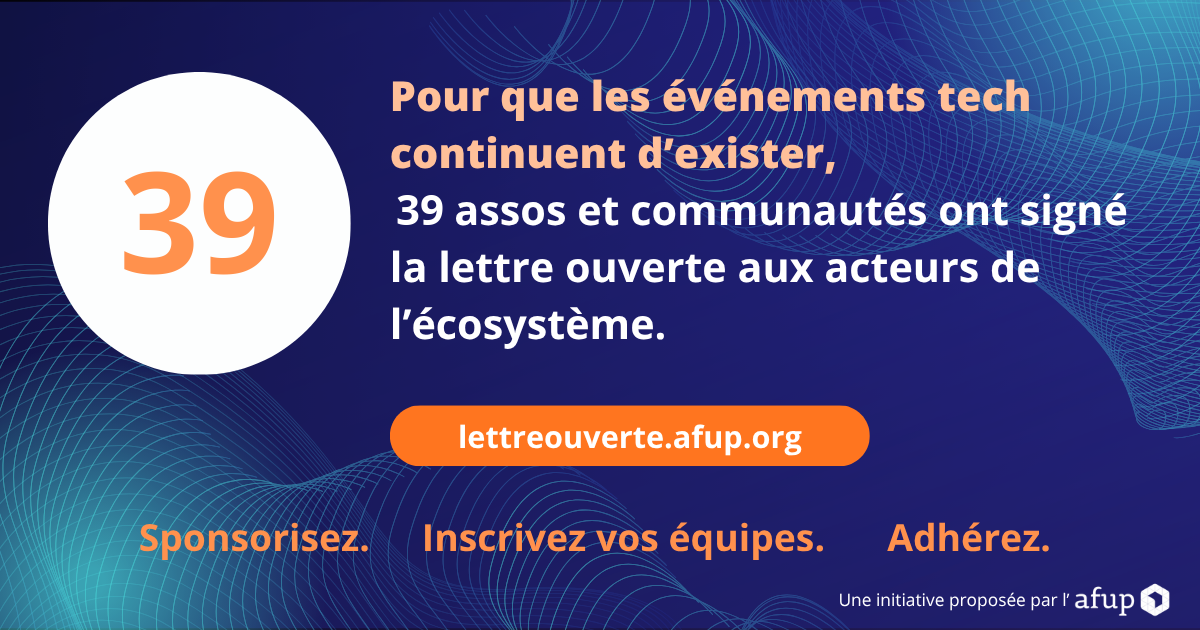
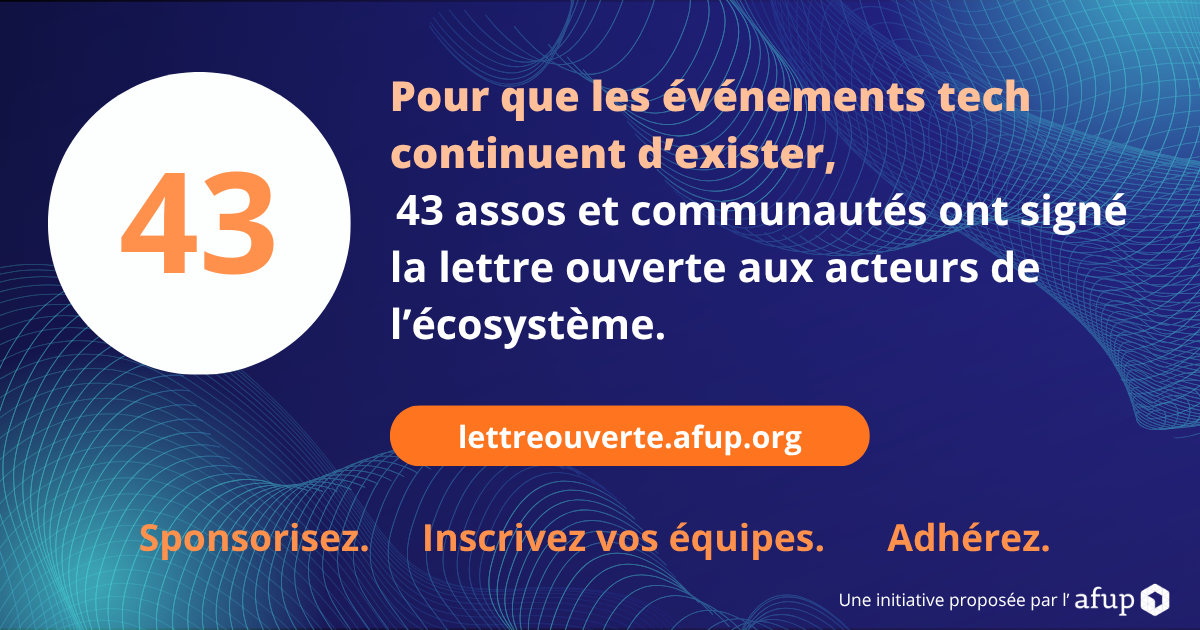
Ajoute Bretzel Craft, AlpesJUG, Chtitedev et Okiwi
AlpesJUG est affiché sans lien : son site officiel est actuellement défacé.
Sa carte utilise donc un `span.sig__inner` plutôt qu'un `a`, et son entrée
JSON-LD est sans `url`.

Claude-Session: https://claude.ai/code/session_0115hX6EEfWp7rYRibe5WUPT

Changed region(s): [[0.0925, 0.2714, 0.2467, 0.4524], [0.3083, 0.3016, 0.37, 0.3619]]

diff --git a/index.html b/index.html
@@ -406,7 +406,7 @@ p a:not(.logo):hover,.footer__nav a:hover{color:var(--orange-hover);border-botto
   <div class="rule signatories__head">
     <div>
       <span class="eyebrow">Signataires</span>
-      <h2 id="signataires-titre"><span class="signatories__count">39</span> organisations ont déjà signé</h2>
+      <h2 id="signataires-titre"><span class="signatories__count">43</span> organisations ont déjà signé</h2>
     </div>
     <p class="signatories__invite">Votre organisation veut apparaître ici&nbsp;? Écrivez-nous à <a href="mailto:lettreouverte@afup.org">lettreouverte@afup.org</a>.</p>
   </div>
@@ -417,8 +417,11 @@ p a:not(.logo):hover,.footer__nav a:hover{color:var(--orange-hover);border-botto
     <li class="sig"><a class="sig__inner" href="https://agilenantes.org/" target="_blank" rel="noopener"><span class="sig__mark"><span class="sig__logo"><img src="assets/logos/agile-nantes.png" alt="Logo d’Agile Nantes" loading="lazy" decoding="async"></span></span><span class="sig__name">Agile Nantes</span></a></li>
     <li class="sig"><a class="sig__inner" href="https://agilestrasbourg.fr/" target="_blank" rel="noopener"><span class="sig__mark"><span class="sig__logo"><img src="assets/logos/agile-tour-strasbourg.png" alt="Logo d’Agile Tour Strasbourg" loading="lazy" decoding="async"></span></span><span class="sig__name">Agile Tour Strasbourg</span></a></li>
     <li class="sig"><a class="sig__inner" href="https://www.alpescraft.fr/" target="_blank" rel="noopener"><span class="sig__mark"><span class="sig__logo"><img src="assets/logos/alpescraft.png" alt="Logo d’AlpesCraft" loading="lazy" decoding="async"></span></span><span class="sig__name">AlpesCraft</span></a></li>
+    <li class="sig"><span class="sig__inner"><span class="sig__mark"><span class="sig__logo"><img src="assets/logos/alpesjug.png" alt="Logo d’AlpesJUG" loading="lazy" decoding="async"><span class="sig__new" title="Nouveau signataire"><span>new</span></span></span></span><span class="sig__name">AlpesJUG</span></span></li>
     <li class="sig"><a class="sig__inner" href="https://bdxio.fr/" target="_blank" rel="noopener"><span class="sig__mark"><span class="sig__logo"><img src="assets/logos/bdx-io.png" alt="Logo de BDX I/O" loading="lazy" decoding="async"></span></span><span class="sig__name">BDX I/O</span></a></li>
     <li class="sig"><a class="sig__inner" href="https://www.breizhcamp.org/" target="_blank" rel="noopener"><span class="sig__mark"><span class="sig__logo"><img src="assets/logos/breizhcamp.svg" alt="Logo de BreizhCamp" loading="lazy" decoding="async"></span></span><span class="sig__name">BreizhCamp</span></a></li>
+    <li class="sig"><a class="sig__inner" href="https://strasbourg-craft.fr/" target="_blank" rel="noopener"><span class="sig__mark"><span class="sig__logo"><img src="assets/logos/bretzel-craft.png" alt="Logo de Bretzel Craft" loading="lazy" decoding="async"><span class="sig__new" title="Nouveau signataire"><span>new</span></span></span></span><span class="sig__name">Bretzel Craft</span></a></li>
+    <li class="sig"><a class="sig__inner" href="https://chtitedev.fr/" target="_blank" rel="noopener"><span class="sig__mark"><span class="sig__logo"><img src="assets/logos/chtitedev.png" alt="Logo de Chtitedev" loading="lazy" decoding="async"><span class="sig__new" title="Nouveau signataire"><span>new</span></span></span></span><span class="sig__name">Chtitedev</span></a></li>
     <li class="sig"><a class="sig__inner" href="https://cloudnative-provence.fr/fr/" target="_blank" rel="noopener"><span class="sig__mark"><span class="sig__logo"><img src="assets/logos/cloud-native-provence.png" alt="Logo de Cloud Native Provence" loading="lazy" decoding="async"></span></span><span class="sig__name">Cloud Native Provence</span></a></li>
     <li class="sig"><a class="sig__inner" href="https://cloudnord.fr/" target="_blank" rel="noopener"><span class="sig__mark"><span class="sig__logo"><img src="assets/logos/cloud-nord.png" alt="Logo de Cloud Nord" loading="lazy" decoding="async"></span></span><span class="sig__name">Cloud Nord</span></a></li>
     <li class="sig"><a class="sig__inner" href="https://laravel-france.com/" target="_blank" rel="noopener"><span class="sig__mark"><span class="sig__logo"><img src="assets/logos/laravel-france.png" alt="Logo de Communauté Laravel France" loading="lazy" decoding="async"></span></span><span class="sig__name">Communauté Laravel France</span></a></li>
@@ -436,6 +439,7 @@ p a:not(.logo):hover,.footer__nav a:hover{color:var(--orange-hover);border-botto
     <li class="sig"><a class="sig__inner" href="https://www.lyonjs.org/" target="_blank" rel="noopener"><span class="sig__mark"><span class="sig__logo"><img src="assets/logos/lyonjs.svg" alt="Logo de LyonJS" loading="lazy" decoding="async"></span></span><span class="sig__name">LyonJS</span></a></li>
     <li class="sig"><a class="sig__inner" href="https://mixitconf.org/" target="_blank" rel="noopener"><span class="sig__mark"><span class="sig__logo"><img src="assets/logos/mixit.svg" alt="Logo de Mixit" loading="lazy" decoding="async"></span></span><span class="sig__name">Mixit</span></a></li>
     <li class="sig"><a class="sig__inner" href="https://nord-agile.org/" target="_blank" rel="noopener"><span class="sig__mark"><span class="sig__logo"><img src="assets/logos/nord-agile.png" alt="Logo de Nord Agile" loading="lazy" decoding="async"><span class="sig__new" title="Nouveau signataire"><span>new</span></span></span></span><span class="sig__name">Nord Agile</span></a></li>
+    <li class="sig"><a class="sig__inner" href="https://okiwi.org/" target="_blank" rel="noopener"><span class="sig__mark"><span class="sig__logo"><img src="assets/logos/okiwi.png" alt="Logo d’Okiwi" loading="lazy" decoding="async"><span class="sig__new" title="Nouveau signataire"><span>new</span></span></span></span><span class="sig__name">Okiwi</span></a></li>
     <li class="sig"><a class="sig__inner" href="https://opengento.fr/" target="_blank" rel="noopener"><span class="sig__mark"><span class="sig__logo"><img src="assets/logos/opengento.svg" alt="Logo d’OpenGento" loading="lazy" decoding="async"></span></span><span class="sig__name">OpenGento</span></a></li>
     <li class="sig"><a class="sig__inner" href="https://paug.fr/" target="_blank" rel="noopener"><span class="sig__mark"><span class="sig__logo"><img src="assets/logos/paug.png" alt="Logo du Paris Android User Group" loading="lazy" decoding="async"><span class="sig__new" title="Nouveau signataire"><span>new</span></span></span></span><span class="sig__name">Paris Android User Group</span></a></li>
     <li class="sig"><a class="sig__inner" href="https://www.paris-web.fr/" target="_blank" rel="noopener"><span class="sig__mark"><span class="sig__logo"><img src="assets/logos/paris-web.svg" alt="Logo de Paris Web" loading="lazy" decoding="async"></span></span><span class="sig__name">Paris Web</span></a></li>
@@ -587,7 +591,7 @@ p a:not(.logo):hover,.footer__nav a:hover{color:var(--orange-hover);border-botto
       "description": "Les événements techniques français traversent une crise silencieuse. Sponsorisez, achetez des places, adhérez : trois gestes pour qu’ils continuent d’exister.",
       "inLanguage": "fr-FR",
       "datePublished": "2026-09-02T08:00:00+02:00",
-      "dateModified": "2026-09-08T21:00:00+02:00",
+      "dateModified": "2026-09-09T21:00:00+02:00",
       "isAccessibleForFree": true,
       "mainEntityOfPage": {
         "@id": "https://lettreouverte.afup.org/#webpage"
@@ -715,6 +719,18 @@ p a:not(.logo):hover,.footer__nav a:hover{color:var(--orange-hover);border-botto
         },
         {
           "@id": "https://lettreouverte.afup.org/#org-yeeso"
+        },
+        {
+          "@id": "https://lettreouverte.afup.org/#org-bretzel-craft"
+        },
+        {
+          "@id": "https://lettreouverte.afup.org/#org-alpesjug"
+        },
+        {
+          "@id": "https://lettreouverte.afup.org/#org-chtitedev"
+        },
+        {
+          "@id": "https://lettreouverte.afup.org/#org-okiwi"
         }
       ],
       "articleSection": [
@@ -1051,6 +1067,33 @@ p a:not(.logo):hover,.footer__nav a:hover{color:var(--orange-hover);border-botto
       "name": "Yeeso",
       "url": "https://yeeso.fr/",
       "logo": "https://lettreouverte.afup.org/assets/logos/yeeso.png"
+    },
+    {
+      "@type": "Organization",
+      "@id": "https://lettreouverte.afup.org/#org-bretzel-craft",
+      "name": "Bretzel Craft",
+      "url": "https://strasbourg-craft.fr/",
+      "logo": "https://lettreouverte.afup.org/assets/logos/bretzel-craft.png"
+    },
+    {
+      "@type": "Organization",
+      "@id": "https://lettreouverte.afup.org/#org-alpesjug",
+      "name": "AlpesJUG",
+      "logo": "https://lettreouverte.afup.org/assets/logos/alpesjug.png"
+    },
+    {
+      "@type": "Organization",
+      "@id": "https://lettreouverte.afup.org/#org-chtitedev",
+      "name": "Chtitedev",
+      "url": "https://chtitedev.fr/",
+      "logo": "https://lettreouverte.afup.org/assets/logos/chtitedev.png"
+    },
+    {
+      "@type": "Organization",
+      "@id": "https://lettreouverte.afup.org/#org-okiwi",
+      "name": "Okiwi",
+      "url": "https://okiwi.org/",
+      "logo": "https://lettreouverte.afup.org/assets/logos/okiwi.png"
     }
   ]
 }</script>
